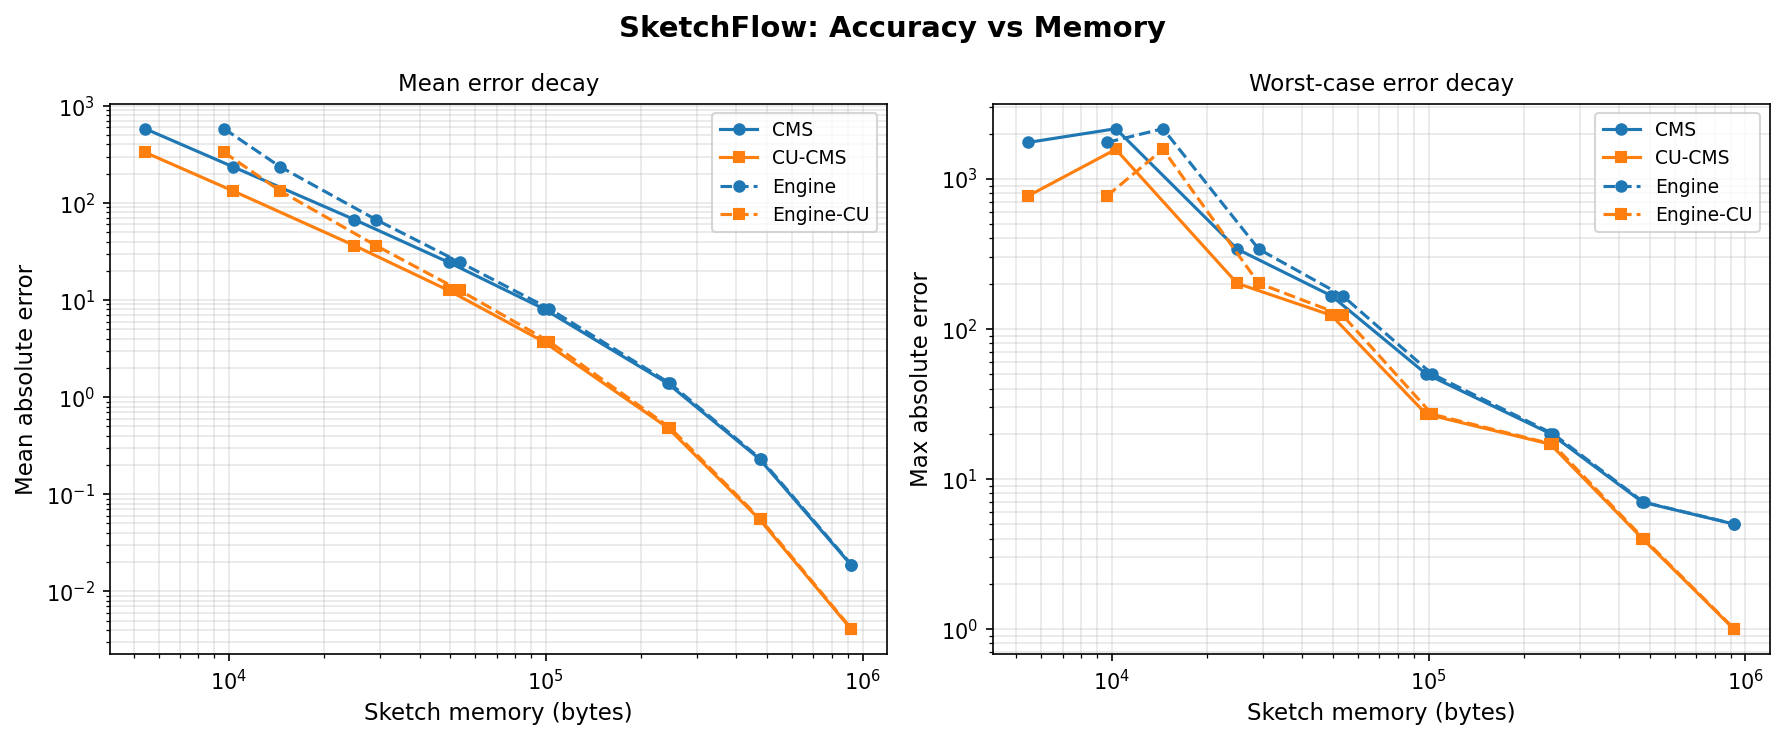
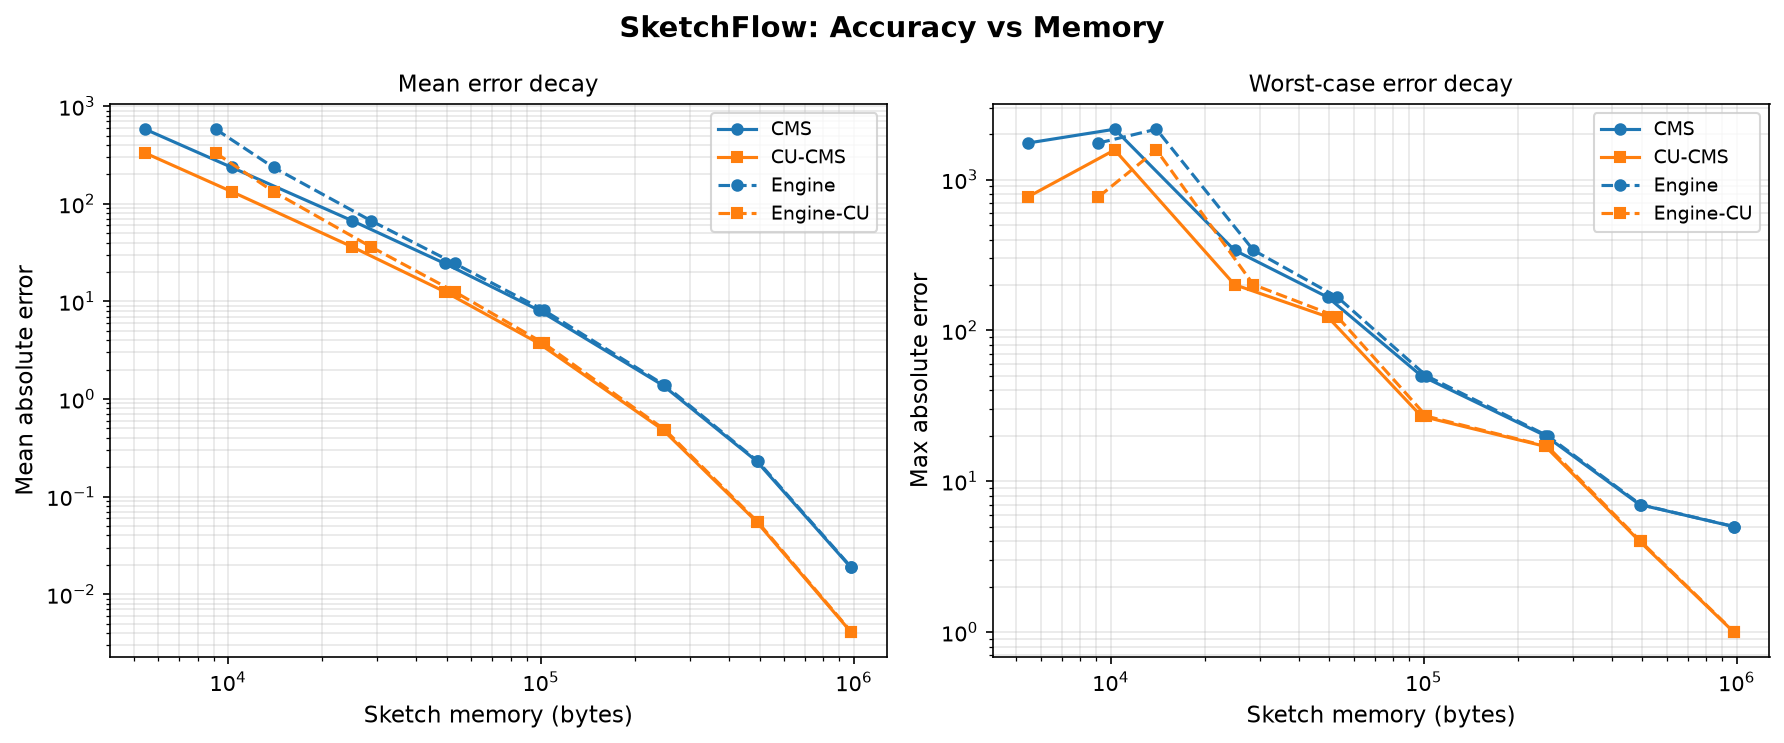
Step 24: make reproduce - one-command regeneration of every CSV/figure + clean-from-scratch CI job - tests green

diff --git a/tests/test_step24_reproduce.py b/tests/test_step24_reproduce.py
@@ -1,0 +1,86 @@
+"""Step 24 gate: one-command reproducibility -- `make reproduce` regenerates
+every CSV and figure in report/ from seeds, and a CI job proves it works
+clean from scratch (make clean -> make reproduce -> full pytest re-validation
+of the regenerated data)."""
+
+import re
+from pathlib import Path
+
+ROOT = Path(__file__).resolve().parent.parent
+MAKEFILE = (ROOT / "Makefile").read_text(encoding="utf-8").replace("\r\n", "\n")
+CI = (
+    (ROOT / ".github" / "workflows" / "ci.yml")
+    .read_text(encoding="utf-8")
+    .replace("\r\n", "\n")
+)
+
+# Every module whose __main__ writes a report/ artifact, in dependency order.
+REPRODUCE_MODULES = [
+    "sketchflow.bench",             # -> report/results.csv
+    "sketchflow.sweep",             # -> report/sweep.csv
+    "sketchflow.plot",              # sweep.csv -> report/accuracy_vs_memory.png
+    "sketchflow.adversarial_study", # -> report/adversarial.csv
+    "sketchflow.real_plot",         # -> report/real_adversarial.{csv,png}
+]
+
+# Every generated artifact the report relies on.
+ARTIFACTS = [
+    "results.csv",
+    "sweep.csv",
+    "accuracy_vs_memory.png",
+    "adversarial.csv",
+    "real_adversarial.csv",
+    "real_adversarial.png",
+]
+
+
+def _target_block(name):
+    m = re.search(rf"^{name}:[^\n]*\n((?:\t[^\n]*\n?)+)", MAKEFILE, re.M)
+    assert m, f"Makefile must define a `{name}` target"
+    return m.group(1)
+
+
+def test_reproduce_target_covers_every_generator():
+    block = _target_block("reproduce")
+    for mod in REPRODUCE_MODULES:
+        assert f"-m {mod}" in block, f"reproduce must run `python -m {mod}`"
+
+
+def test_reproduce_orders_generators_before_plotters():
+    block = _target_block("reproduce")
+    # plot.py reads sweep.csv, so sweep must run first.
+    assert block.index("sketchflow.sweep") < block.index("sketchflow.plot")
+
+
+def test_reproduce_sets_pythonpath():
+    # The regeneration commands must be runnable from a bare checkout.
+    assert "PYTHONPATH=src" in MAKEFILE
+
+
+def test_clean_target_removes_generated_artifacts():
+    block = _target_block("clean")
+    assert "report/*.csv" in block and "report/*.png" in block
+
+
+def test_every_generated_artifact_is_committed_and_nonempty():
+    for name in ARTIFACTS:
+        p = ROOT / "report" / name
+        assert p.exists(), f"report/{name} missing"
+        assert p.stat().st_size > 0, f"report/{name} empty"
+
+
+def test_ci_has_clean_from_scratch_reproduce_job():
+    assert re.search(r"^  reproduce:", CI, re.M), "ci.yml needs a reproduce job"
+    assert "make clean" in CI, "reproduce job must wipe artifacts first"
+    assert "make reproduce" in CI, "reproduce job must run make reproduce"
+    # The regenerated data must be re-validated by the full suite afterwards
+    # (this is what stops the report drifting from what the code produces).
+    tail = CI.split("make reproduce", 1)[1]
+    assert "pytest -q" in tail, "reproduce job must re-run pytest after regenerating"
+    # Clean must precede reproduce -- otherwise it is not from scratch.
+    assert CI.index("make clean") < CI.index("make reproduce")
+
+
+def test_report_documents_make_reproduce():
+    text = (ROOT / "report" / "EMPIRICAL_STUDY.md").read_text(encoding="utf-8")
+    assert "make reproduce" in text, "report section 7 must document `make reproduce`"

diff --git a/report/EMPIRICAL_STUDY.md b/report/EMPIRICAL_STUDY.md
@@ -97,6 +97,14 @@ Two distinct promises are measured per row: the **theorem bound** ε·N (N = liv
 
 ## 7. Reproducing everything
 
+One command regenerates every CSV and figure in `report/` from seeds (CI does exactly this, clean from scratch, on every push):
+
+```
+make reproduce
+```
+
+Or step by step:
+
 ```
 git clone https://github.com/neil-cipher/sketchflow && cd sketchflow
 pip install pytest matplotlib dpkt
@@ -107,7 +115,7 @@ PYTHONPATH=src python -m sketchflow.adversarial_study   # report/adversarial.csv
 PYTHONPATH=src python -m sketchflow.real_plot           # report/real_adversarial.csv + .png
 ```
 
-All randomness is seeded; the CSVs committed in `report/` are byte-reproducible from the commands above.
+All randomness is seeded, so every error and violation column is byte-reproducible from the commands above. The memory columns (`sketch_bytes`, `baseline_bytes`) come from `sys.getsizeof` and can shift by a few percent across Python versions; the findings they back (e.g. the memory crossover at small epsilon) are inequalities, not exact byte counts, and hold regardless.
 
 ## References
 
